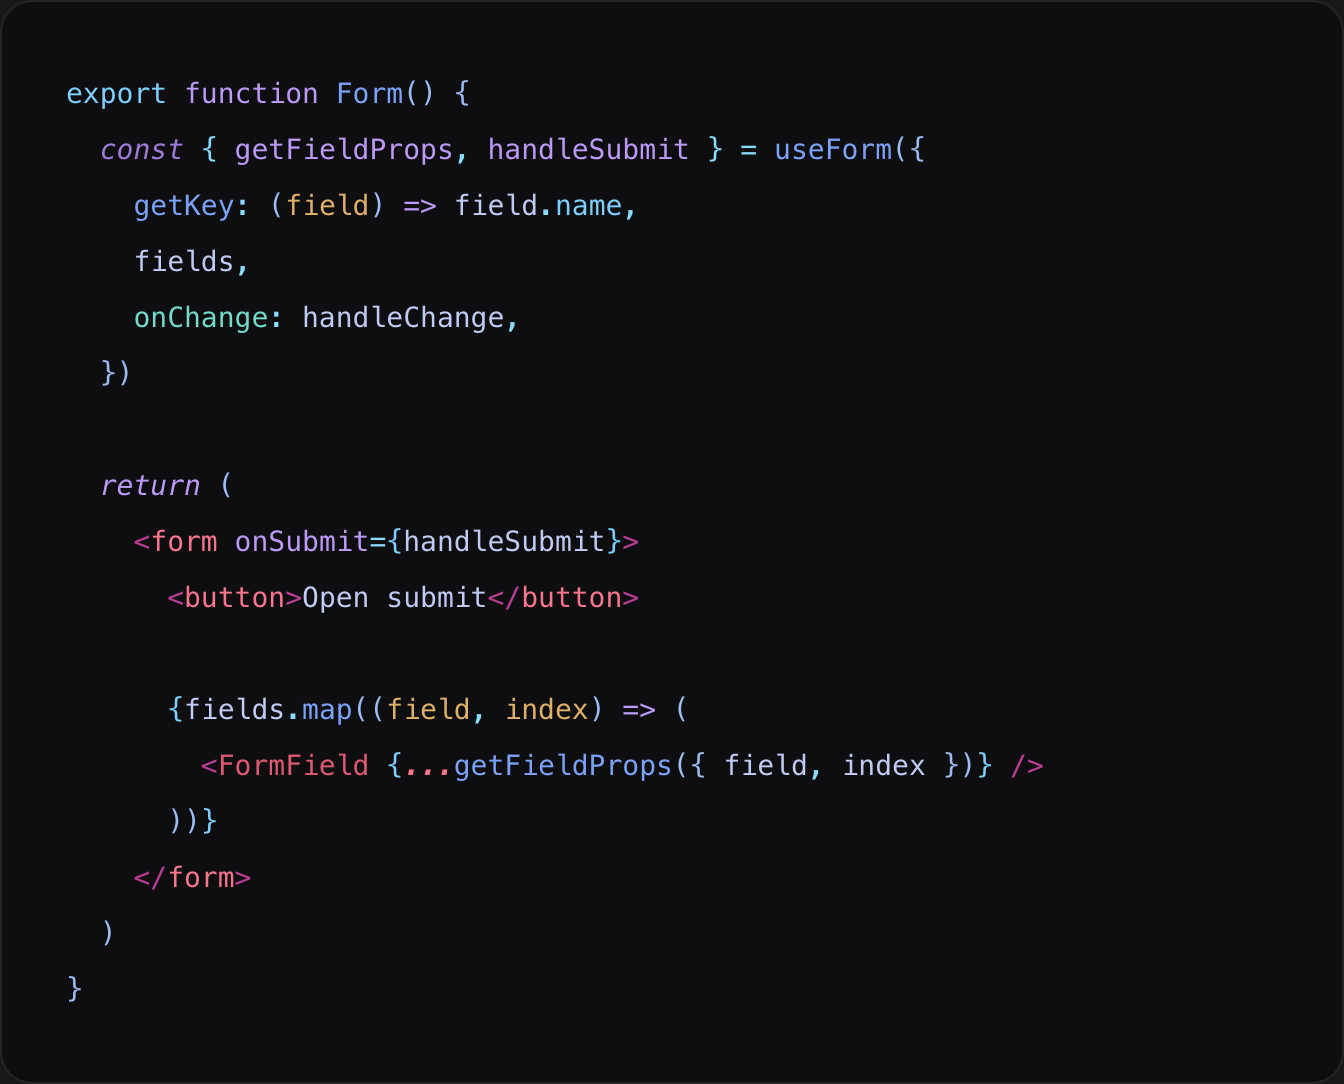
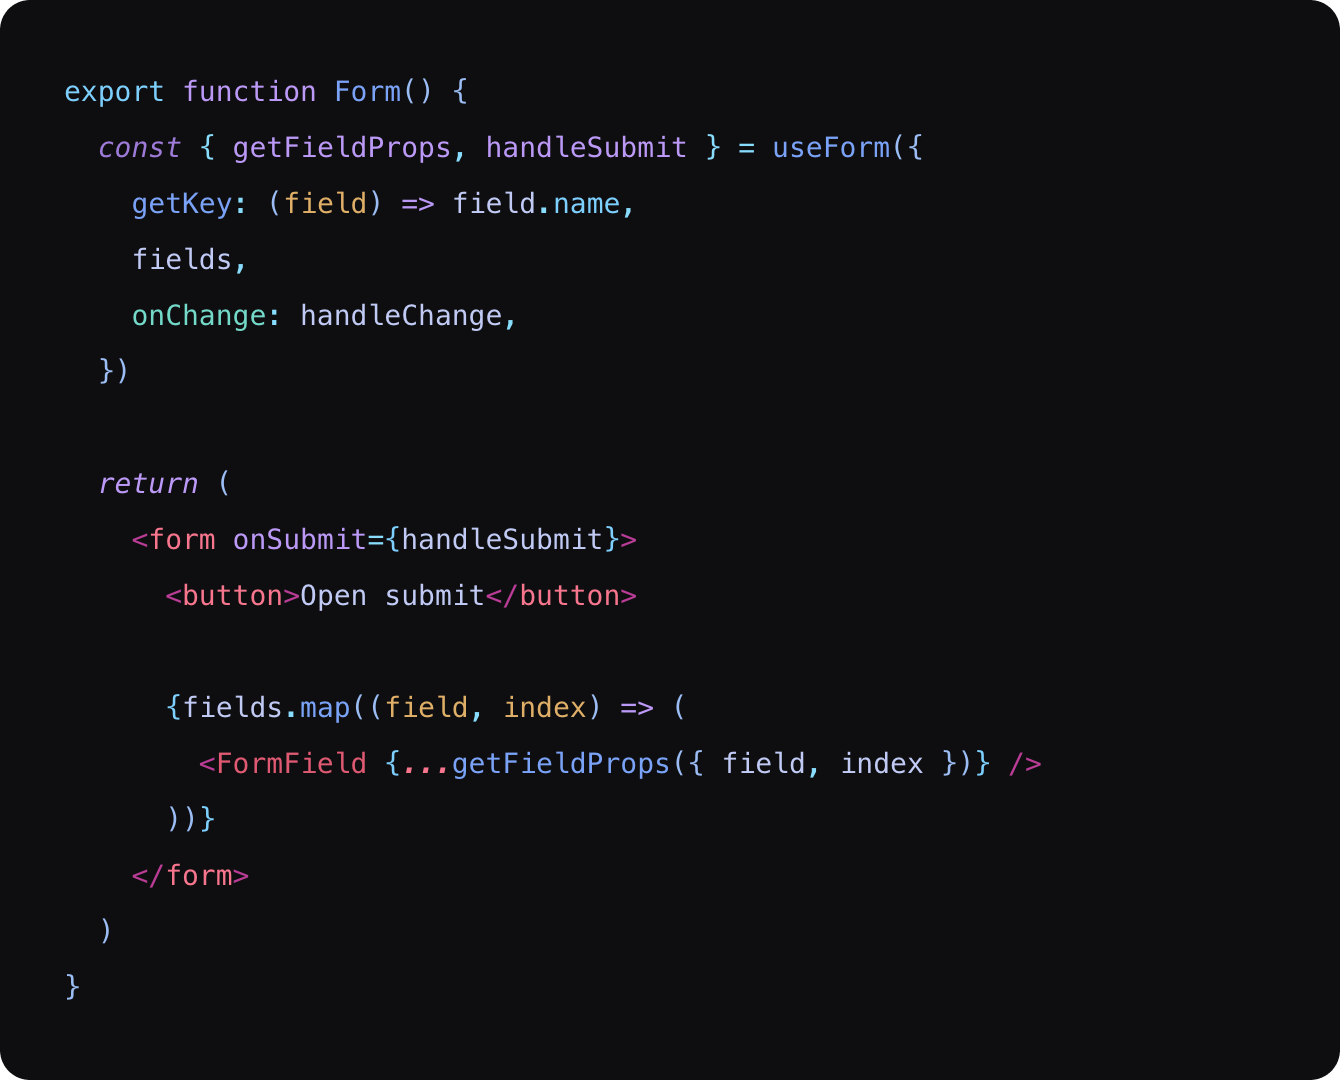
Update shiki images

diff --git a/app/(main)/blog/components/ImageComparison.tsx b/app/(main)/blog/components/ImageComparison.tsx
@@ -37,6 +37,7 @@ export function ImageComparison({ one, two }: ImageComparisonProps) {
 
   return (
     <ReactCompareSlider
+      className="rounded-3xl"
       handle={
         <Handle
           buttonStyle={{ borderColor: "currentcolor" }}
